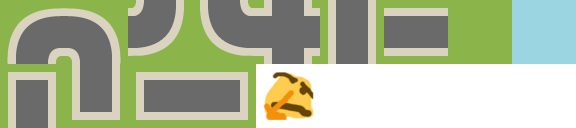
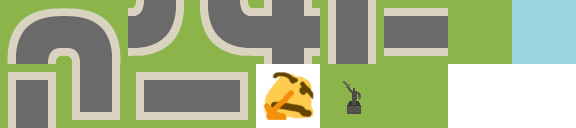
Add a statue landmark

Changed region(s): [[0.5312, 0.5, 0.7812, 1.0]]

diff --git a/src/tiles/world_tile_set.rb b/src/tiles/world_tile_set.rb
@@ -23,7 +23,8 @@ module ScenicRoute
         :object_station_south,
         :object_station_north,
         :object_station_east,
-        :object_station_west
+        :object_station_west,
+        :object_landmark_statue
       ]
 
       REQUIRED_SYMBOLS.each do |sym|

diff --git a/src/tiles/tile_manager.rb b/src/tiles/tile_manager.rb
@@ -31,7 +31,8 @@ module ScenicRoute
           object_station_north: 10,
           object_station_east: 11,
           object_station_west: 12,
-          placeholder: 13
+          placeholder: 13,
+          object_landmark_statue: 14
         }
       }
 
